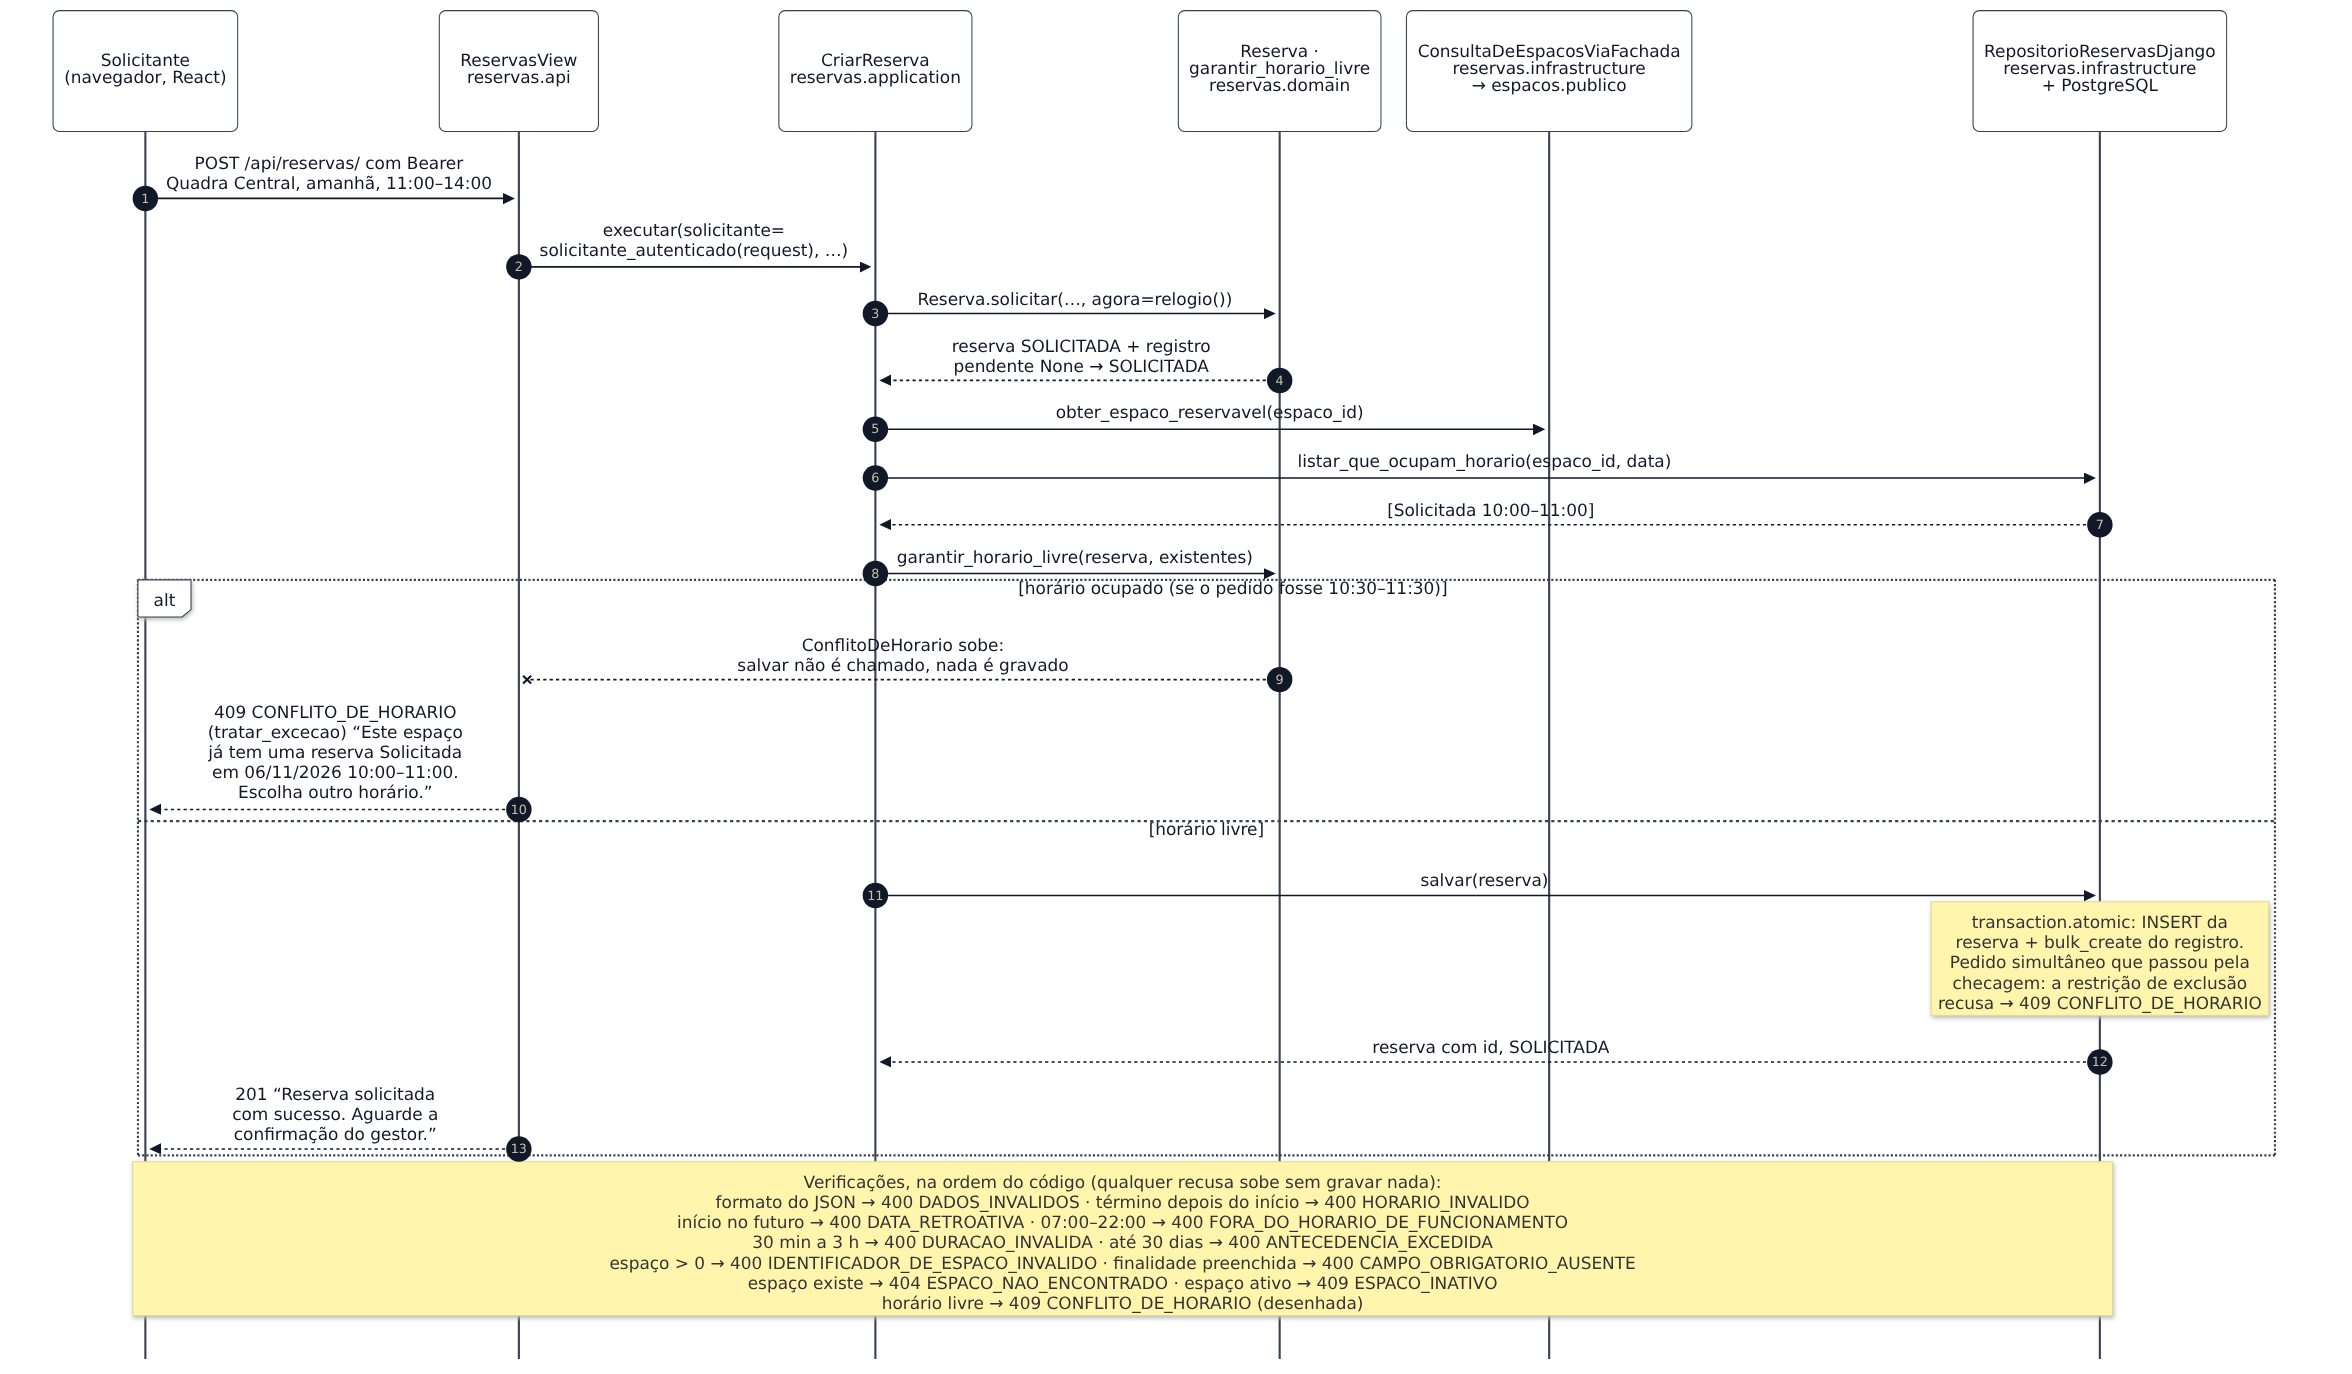
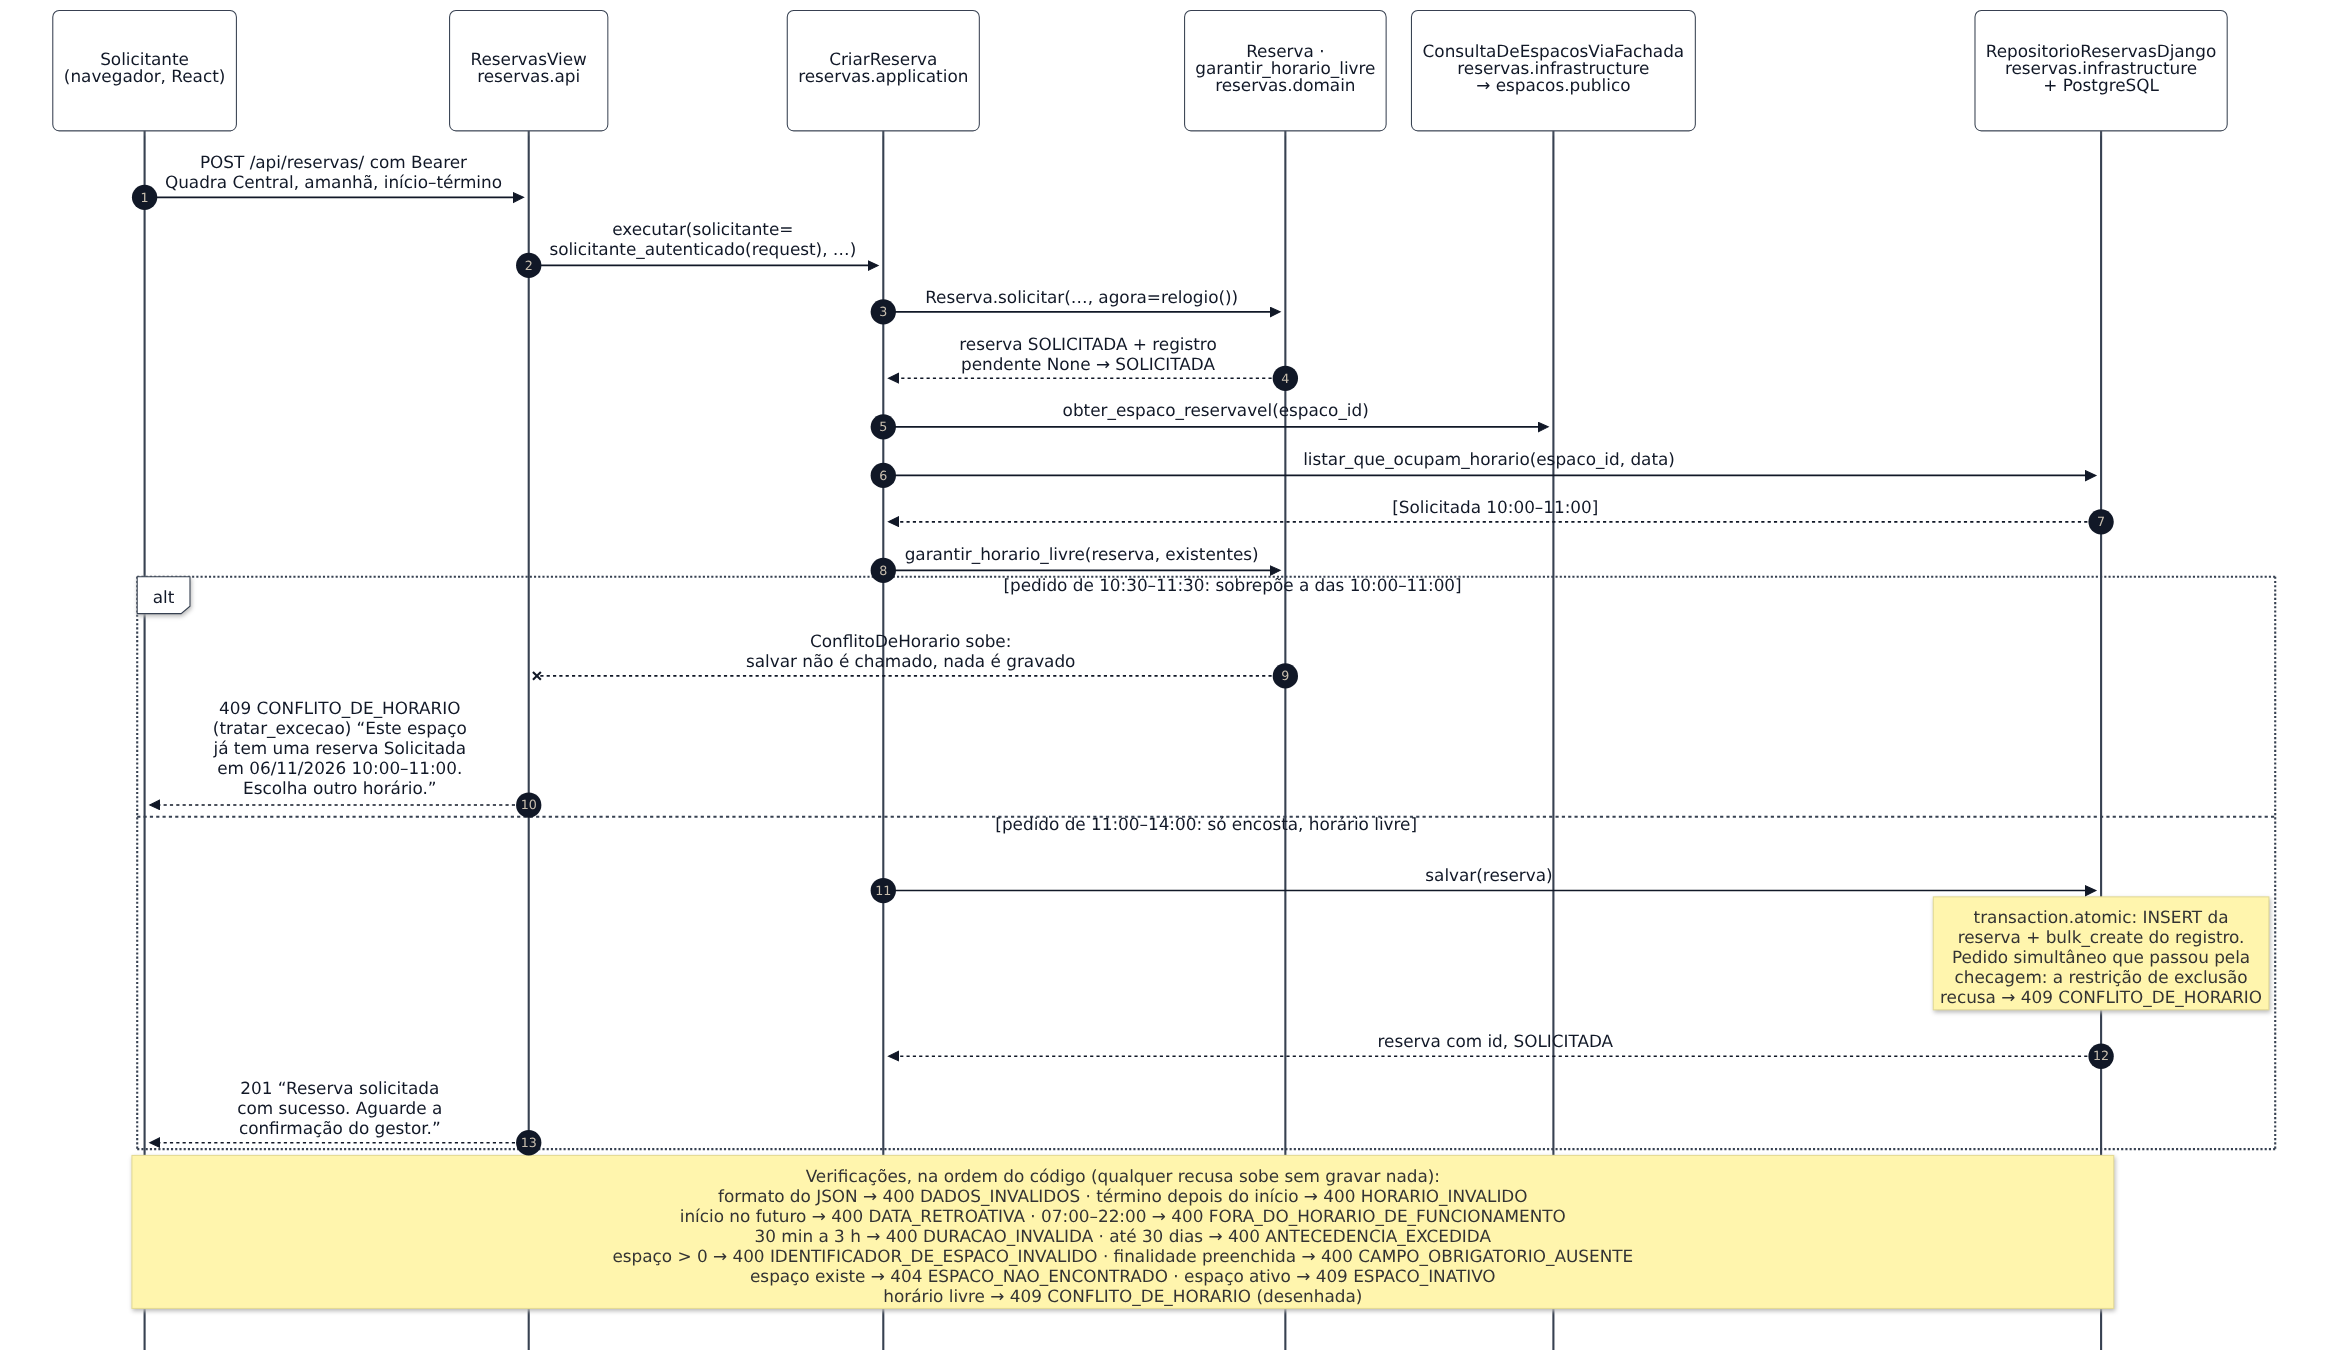
fix(modelagem): deixa neutros os passos antes do alt nas figuras 5 e 6, com o cenário só na guarda

diff --git a/docs/fontes/modelagem/README.md b/docs/fontes/modelagem/README.md
@@ -14,6 +14,7 @@
 | 0.1 | 05/11/2026 | Max Zimmermann dos Reis | Seção 2 (Modelo do domínio e estados da reserva, DOC-02): figuras 3 e 4, verificação e correspondência com o banco |
 | 0.1 | 05/11/2026 | Max Zimmermann dos Reis | Seção 3 (Fluxo principal, DOC-03): figuras 5 e 6 (sequência), verificação, tabela passo → código → teste e medida das seções 1 a 3 |
 | 0.1 | 05/11/2026 | Max Zimmermann dos Reis | Ficha UC-04 corrigida (espaço antes da finalidade); a nota da Figura 5 passa a citar `IDENTIFICADOR_DE_ESPACO_INVALIDO`, e a verificação confere o campo quando o mesmo código é lançado em pontos diferentes (`%% campo:`) |
+| 0.1 | 05/11/2026 | Max Zimmermann dos Reis | Revisão: passos antes do `alt` sem o dado que separa os cenários (horário pedido na Figura 5, situação lida na Figura 6), que agora fica só nas guardas |
 
 Esta pasta é a fonte de todo o `docs/modelagem.pdf` (Projeto de Programação, seção 6 do enunciado: no máximo 6 páginas). Ela fica em `docs/fontes/` e por isso **não entra no ZIP**: só o PDF gerado entra.
 
@@ -179,7 +180,7 @@ docker run --rm -v "${PWD}/docs/fontes/modelagem:/data" minlag/mermaid-cli:12.0.
 docker run --rm -v "${PWD}/docs/fontes/modelagem:/data" minlag/mermaid-cli:12.0.0 -c configuracao-mermaid.json -i confirmar-reserva.mmd -o confirmar-reserva.png -s 3 -b white
 ```
 
-O PNG sai em escala 3 (2352 px de largura), nítido a 16 cm no PDF. Na largura de 16 cm, a Figura 1 ocupa 13,1 cm de altura e a Figura 2, 10,1 cm, e os rótulos ficam com cerca de 10 px (conferido numa página de 605 px no navegador): legíveis, mas no limite. Se uma figura nova ficar mais larga, simplifique os rótulos; não reduza a fonte. Na seção 2, a Figura 3 tem 1693 × 1620 px naturais (16 × 15,3 cm) e a Figura 4, 1771 × 369 (16 × 3,3 cm); ver a legibilidade nas Pendências. Na seção 3, a Figura 5 tem 2194 × 1288 px naturais (16 × 9,4 cm) e a Figura 6, 2082 × 1162 (16 × 8,9 cm).
+O PNG sai em escala 3 (2352 px de largura), nítido a 16 cm no PDF. Na largura de 16 cm, a Figura 1 ocupa 13,1 cm de altura e a Figura 2, 10,1 cm, e os rótulos ficam com cerca de 10 px (conferido numa página de 605 px no navegador): legíveis, mas no limite. Se uma figura nova ficar mais larga, simplifique os rótulos; não reduza a fonte. Na seção 2, a Figura 3 tem 1693 × 1620 px naturais (16 × 15,3 cm) e a Figura 4, 1771 × 369 (16 × 3,3 cm); ver a legibilidade nas Pendências. Na seção 3, a Figura 5 tem 2206 × 1288 px naturais (16 × 9,3 cm) e a Figura 6, 2082 × 1162 (16 × 8,9 cm).
 
 ## Como verificar
 
@@ -234,7 +235,7 @@ Nos três casos o script sai com código 1.
 
 ## Decisões da seção 3
 
-- <a id="decisao-3a"></a>**a) Duas figuras de sequência, uma por requisição.** A Figura 5 é o `POST` da lista de reservas (rota `reservas:lista`), do pedido ao 201 com a reserva Solicitada e o registro de criação; a Figura 6 é o `PATCH` da situação (rota `reservas:situacao`) pelo gestor, de Solicitada a Confirmada, com o registro da mudança gravado na mesma transação. Cada uma tem um bloco `alt` com a rejeição.
+- <a id="decisao-3a"></a>**a) Duas figuras de sequência, uma por requisição.** A Figura 5 é o `POST` da lista de reservas (rota `reservas:lista`), do pedido ao 201 com a reserva Solicitada e o registro de criação; a Figura 6 é o `PATCH` da situação (rota `reservas:situacao`) pelo gestor, de Solicitada a Confirmada, com o registro da mudança gravado na mesma transação. Cada uma tem um bloco `alt` com a rejeição. **Cada figura é um pedido só:** os passos antes do `alt` valem para os dois cenários e não afirmam o dado que os separa; a guarda do `alt` diz qual é (Figura 5: o horário pedido, 10:30–11:30 ou 11:00–14:00; Figura 6: a situação da reserva lida no passo 4, Recusada no Ginásio Coberto ou Solicitada). Achado de revisão: a primeira versão dizia "11:00–14:00" no passo 1 e "reserva SOLICITADA" no passo 4, e o `alt` contradizia isso.
 - <a id="decisao-3b"></a>**b) No máximo 6 participantes, com o nome real e o pacote embaixo:** o ator no navegador (o frontend React numa caixa só, porque o interior dele está na seção 1), a view, o caso de uso, o domínio (`Reserva` e, na Figura 5, a função `garantir_horario_livre`, na mesma caixa porque os dois são `reservas.domain`), a porta de espaços (só na Figura 5: `ConsultaDeEspacosViaFachada`, que chama `espacos.publico`) e `RepositorioReservasDjango` junto com o PostgreSQL (separá-los alargava a figura sem mostrar mais nada: o banco só aparece nas notas da transação). `autonumber` ligado; mensagens com o nome real do método e os parâmetros nomeados reais.
 - <a id="decisao-3c"></a>**c) Uma rejeição desenhada por figura;** as outras numa nota "Verificações", na ordem real do código, com o status e o código de cada uma, e a desenhada marcada. A ordem foi lida do código, não do backlog. Na Figura 5: formato (`DADOS_INVALIDOS`, do serializer) → término depois do início → início no futuro → funcionamento → duração → antecedência → finalidade → espaço existe → espaço ativo → conflito. Na Figura 6: formato → visível ao ator (404) → situação conhecida → papel (403) → transição (409) → tamanho do motivo → motivo obrigatório → situação lida (409 `RESERVA_DESATUALIZADA`). Na Figura 5, depois da antecedência vêm o espaço identificado por número positivo (`IDENTIFICADOR_DE_ESPACO_INVALIDO`) e só então a finalidade (`CAMPO_OBRIGATORIO_AUSENTE`, declarado com `%% campo: ... = finalidade`, porque o mesmo código também sai do intervalo com data ou hora `None`, que o serializer já recusa antes). Essa ordem contradizia a ficha UC-04, que foi corrigida (ver Pendências).
 - <a id="decisao-3d"></a>**d) "Nada muda" está desenhado:** a exceção sobe com `--x` direto até a view, e a mensagem diz que `salvar` não é chamado; o `salvar` aparece só no `else`, com uma nota que diz que reserva e registros são uma transação (`transaction.atomic` + `bulk_create`). A corrida também: na Figura 5, a nota do `salvar` diz que a restrição de exclusão recusa um pedido simultâneo que passou pela checagem em código (o repositório traduz o `IntegrityError` no mesmo `ConflitoDeHorario`); na Figura 6, que o `select_for_update` com a situação de origem recusa a decisão simultânea (409 `RESERVA_DESATUALIZADA`).
@@ -370,7 +371,7 @@ Nenhuma. A lista `EXCECOES` do script está vazia: todo import entre módulos ma
 - **Divergências encontradas (o diagrama segue o código):** (1) backlog "HistoricoSituacao" × código `RegistroDeSituacao`; (2) `eh_final`, `ocupa_horario` e `eh_gestor` pedidos como métodos são `@property`; (3) `Usuario.perfil` é `str` no model, com os valores de `PerfilUsuario`; (4) a `Reserva` guarda só os registros pendentes (`registros_pendentes`), e o histórico gravado é lido pelo repositório. Glossário × código: nenhuma divergência nova; as 11 classes estão na coluna "Nome no código" (o verificador não avisou nada). As divergências que o glossário já registra continuam valendo (dois nomes para o perfil, `PapelDoAtor` × `PerfilUsuario`; "permitidas" × "disponíveis").
 - **"Reserva nova só por `Reserva.solicitar`" é convenção, não invariante da classe** (achado da revisão). O construtor de `Reserva` é público e valida só o que vale em qualquer situação (`espaco_id`, finalidade, situação, motivo em Recusada e Cancelada, `criada_em` com fuso); início no futuro, regras de agenda e o registro inicial `None → SOLICITADA` só existem em `Reserva.solicitar`. Fora dos testes, quem chama o construtor é só o repositório, para reconstituir (`reservas/infrastructure/repositorio_django.py`), e quem cria reserva nova é só `CriarReserva` (`reservas/application/casos_de_uso.py`). O texto da seção 2 diz isso. Tornar a regra da classe exigiria mudar o código (por exemplo, um construtor de reconstituição separado ou um id obrigatório na reconstituição), fora do escopo desta tarefa.
 - **Seção 3 dentro do alvo.** Medida em A4 pelo mesmo método, agora registrado: HTML gerado com o `marked` e medido no Chromium do próprio `minlag/mermaid-cli:12.0.0`, com `body { width: 16cm; font: 11pt/1.35 Arial }`, `h2` 14 pt, `h3` 12 pt, parágrafos com 6 pt de margem embaixo, tabelas 9 pt, `code` 10 pt e figuras a 16 cm (área útil de 16 × 24,7 cm). Com esse CSS, as seções 1 e 2 dão 42,2 e 37,3 cm, as mesmas medidas da DOC-02. **Seção 3: 33,9 cm, ~1,37 página** (figuras: 9,3 + 8,9 cm). A primeira versão do texto dava 40,5 cm (1,64 página); o detalhe veio para as decisões da seção 3 e para a tabela passo → teste, e não foi preciso tirar retornos nem juntar participantes. **Seções 1 a 3: 113,5 cm, ~4,59 páginas**, então sobram 1,41 página: 1 para a seção 4 e 0,41 para a capa e as quebras de página.
-- **Legibilidade das figuras 5 e 6 no limite**, como a da seção 1: a 16 cm (605 px), o texto fica com cerca de 4,4 e 4,6 px (fonte de 16 px × 605 / 2194 e 2082 px naturais), ~3,5 pt impresso. Quebrar mais as mensagens só tira ~90 px de largura e aumenta a altura; trocar a ordem dos participantes deixou a Figura 5 mais larga (2292 px). Se a DOC-04 achar pequeno no PDF, a saída é a mesma das figuras 1 e 3: uma página em paisagem, que aqui cabe na folga de 0,41.
+- **Legibilidade das figuras 5 e 6 no limite**, como a da seção 1: a 16 cm (605 px), o texto fica com cerca de 4,4 e 4,6 px (fonte de 16 px × 605 / 2206 e 2082 px naturais), ~3,5 pt impresso. Quebrar mais as mensagens só tira ~90 px de largura e aumenta a altura; trocar a ordem dos participantes deixou a Figura 5 mais larga (2292 px). Se a DOC-04 achar pequeno no PDF, a saída é a mesma das figuras 1 e 3: uma página em paisagem, que aqui cabe na folga de 0,41.
 - **Divergência ficha × código, corrigida na ficha:** a ficha UC-04 punha "Finalidade em branco ou longa demais" (então E7.1) antes de "Espaço não identificado" (E7.2) e dizia que era a ordem real, mas o construtor de `Reserva` confere `espaco_id` primeiro (`_validar_espaco_id` na linha 47 de `reservas/domain/reserva.py`, antes de `_normalizar_finalidade` na 50). Só mudava a mensagem de um pedido com espaço 0 ou negativo **e** finalidade em branco. Corrigido seguindo o código: na ficha, o passo 7 confere o espaço e depois a finalidade, E7.1 passou a ser "Espaço não identificado" e E7.2, "Finalidade em branco ou longa demais"; o fluxo de decisão (`fluxo-solicitar-reserva.puml`, imagens geradas de novo), a origem do CA-14 e do CA-15 da US-08, a cobertura UC → US/CA do README das histórias e a L-12 da SRS acompanharam; a matriz gerada não mudou (o RF-11.1 continua ligado a E5.1, E5.2, E7.1 e E7.2) e o manifesto da baseline candidata foi regenerado. A nota da Figura 5 passou a citar `IDENTIFICADOR_DE_ESPACO_INVALIDO`. Os números dos CAs não mudaram. A ficha UC-10 bate com o código, na mesma ordem da nota da Figura 6.
 - **Sem teste da cópia do solicitante.** Nenhum teste prova que mudar o nome ou a matrícula de um usuário deixa as reservas antigas como estavam; a garantia é estrutural (`Solicitante` imutável, colunas `solicitante_nome` e `solicitante_matricula` sem chave estrangeira). Fica sugerido um teste de repositório ou de API para a próxima tarefa de testes (esta tarefa não muda testes).
 
@@ -510,7 +511,7 @@ Saída de `python scripts/verificar_fluxo_principal.py` em 05/11/2026 (caminhos 
 | confirmar-reserva.mmd | 1 | PATCH /api/reservas/{id}/situacao/ com Bearer, situacao CONFIRMADA | reservas/api/urls.py:21 → ReservaSituacaoView.patch reservas/api/views.py:62 |
 | confirmar-reserva.mmd | 2 | executar(reserva_id=…, nova_situacao=…, ator=ator_autenticado(reque… | chamada reservas/api/views.py:66 → def reservas/application/casos_de_uso.py:84 |
 | confirmar-reserva.mmd | 3 | obter_por_id(reserva_id) | chamada reservas/application/casos_de_uso.py:149 → def reservas/infrastructure/repositorio_django.py:43 |
-| confirmar-reserva.mmd | 4 | reserva SOLICITADA (visivel_para(ator): o gestor vê todas) | retorno de obter_por_id: reservas/infrastructure/repositorio_django.py:45 |
+| confirmar-reserva.mmd | 4 | reserva lida (visivel_para(ator): o gestor vê todas) | retorno de obter_por_id: reservas/infrastructure/repositorio_django.py:45 |
 | confirmar-reserva.mmd | 5 | alterar_situacao(nova_situacao, motivo=None, ator=ator, agora=relog… | chamada reservas/application/casos_de_uso.py:93 → def reservas/domain/reserva.py:124 |
 | confirmar-reserva.mmd | 6 | TransicaoDeSituacaoInvalida sobe: situação, motivo e registros inta… | raise reservas/domain/reserva.py:138 |
 | confirmar-reserva.mmd | 7 | 409 TRANSICAO_DE_SITUACAO_INVALIDA (tratar_excecao) “Não é possível… | compartilhado/api/tratador_de_erros.py:28 (ConflitoDeEstado → 409); mensagem reservas/domain/excecoes.py:89 |
@@ -518,7 +519,7 @@ Saída de `python scripts/verificar_fluxo_principal.py` em 05/11/2026 (caminhos 
 | confirmar-reserva.mmd | 9 | salvar(reserva) | chamada reservas/application/casos_de_uso.py:96 → def reservas/infrastructure/repositorio_django.py:22 |
 | confirmar-reserva.mmd | 10 | reserva CONFIRMADA | retorno de salvar: reservas/infrastructure/repositorio_django.py:41 |
 | confirmar-reserva.mmd | 11 | 200 “Reserva confirmada com sucesso.” | resposta_sucesso reservas/api/views.py:72 |
-| solicitar-reserva.mmd | 1 | POST /api/reservas/ com Bearer Quadra Central, amanhã, 11:00–14:00 | reservas/api/urls.py:16 → ReservasView.post reservas/api/views.py:41 |
+| solicitar-reserva.mmd | 1 | POST /api/reservas/ com Bearer Quadra Central, amanhã, início–término | reservas/api/urls.py:16 → ReservasView.post reservas/api/views.py:41 |
 | solicitar-reserva.mmd | 2 | executar(solicitante= solicitante_autenticado(request), …) | chamada reservas/api/views.py:44 → def reservas/application/casos_de_uso.py:34 |
 | solicitar-reserva.mmd | 3 | Reserva.solicitar(…, agora=relogio()) | chamada reservas/application/casos_de_uso.py:44 → def reservas/domain/reserva.py:59 |
 | solicitar-reserva.mmd | 4 | reserva SOLICITADA + registro pendente None → SOLICITADA | retorno de solicitar: reservas/domain/reserva.py:95 |
